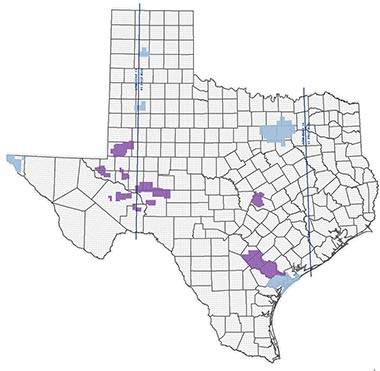
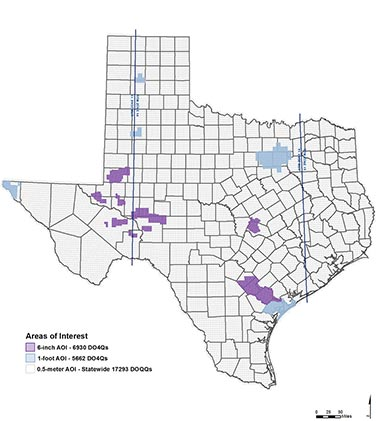
added buy up map, timeline adjustments

diff --git a/scss/partials/_statewide-ortho.scss b/scss/partials/_statewide-ortho.scss
@@ -380,7 +380,7 @@ h2.updates-header {
 
 .bar-vertical {
     background:#eee;
-    height: 450px;
+    height: 380px;
     top: 50px;
     position: absolute;
     right: 50%;
@@ -428,6 +428,10 @@ h2.updates-header {
     strong {
       font-size: 20px;
     }
+    
+    @media (min-width: $screen-sm) and (max-width: $screen-md) {
+      font-size: 14px;
+    }
 
     @media (min-width: $screen-sm) {
       bottom: 0;
@@ -437,7 +441,7 @@ h2.updates-header {
       margin-right: auto;
       left: 0;
       right: 0;
-      height: 100px;
+      height: 90px;
 
       &:after {
         content:'';
@@ -517,5 +521,30 @@ h2.updates-header {
     @media (min-width: $screen-md) {
       height: 40px;
     }
+  }
+}
+
+//Buy up image
+
+.buy-up {
+  background: $lightgrey;
+  border: 1px solid $midgrey;
+  border-radius: 5px;
+  float: right;
+  margin-left: 10px;
+  padding: 10px;
+  width: 200px;
+
+  h4 {
+    margin: 0;
+    text-align: center;
+  }
+  
+  img {
+    width: 100%;
+  }
+
+  @media (min-width: $screen-md) {
+    margin-right: -230px;
   }
 }

diff --git a/templates/partials/2015-ortho/intro.html b/templates/partials/2015-ortho/intro.html
@@ -4,8 +4,7 @@
         <h3>Acquisition Time Frames Map</h3>
         <a href="#time-frames-map" data-toggle="modal">
             <img alt="Acquistion Time Frames map thumbnail" src="../images/statewide-orthoimagery/2015_stateorthos_acquisition_sm.jpg">
-          <br>
-          <small class="text-right"><span class="glyphicon glyphicon-search"></span> Click for larger view</small>
+          <figcaption class="text-right"><span class="glyphicon glyphicon-search"></span> Click for larger view</figcaption>
         </a>
     </figure>
     <div class="modal fade" id="time-frames-map" tabindex="-1" role="dialog" aria-labelledby="myModalLabel" aria-hidden="true">

diff --git a/scss/partials/_twentytwenty.scss b/scss/partials/_twentytwenty.scss
@@ -8,6 +8,17 @@
   }
 }
 
+.leaf-off-on {
+  .twentytwenty-before-label:before {
+    content: 'Leaf-Off';
+  }
+
+  .twentytwenty-after-label:before {
+    content: 'Leaf-On';
+  }
+}
+
+
 .twentytwenty-before-label, 
 .twentytwenty-after-label {
   &:before {

diff --git a/scss/partials/_variables.scss b/scss/partials/_variables.scss
@@ -66,7 +66,7 @@ $footer-height: 275px;
 }
 
 // timeline height on ortho page
-$timelineheight: 210px;
+$timelineheight: 200px;
 $timelineheightsm: 160px;
 
 // Box Shadow //

diff --git a/content/markdown/2015-statewide-orthoimagery-project.md b/content/markdown/2015-statewide-orthoimagery-project.md
@@ -22,29 +22,54 @@ progress_5: 0
 ---
 
 ## Contributors
-
 <p class="lead"><strong>Four state agencies</strong> contributed funds toward the BASE 0.5-meter statewide orthoimagery collection.</p>
 
 They are the [Texas Department of Transportation](http://www.txdot.gov), the [Texas Commission on Environmental Quality](http://www.tceq.state.tx.us), the [Railroad Commission of Texas Surface Mining and Reclamation Division](http://www.rrc.state.tx.us), and the Texas [General Land Office](http://www.glo.texas.gov).
 
 <img class="img-responsive img-expand" src="/images/statewide-orthoimagery/statewide_contributors.jpg" alt="State Agencies who contributed to the orthoimagery collection">
 
+<figure class="buy-up">
+        <h4>Map of 1-foot to 6-Inch Buy-Ups</h4>
+        <a href="#buy-ups-map" data-toggle="modal">
+            <img src="images/statewide-orthoimagery/2015_orthos_buyups_sm.jpg" alt="thumbnail for buyup regions">
+          <figcaption class="text-right"><i class="glyphicon glyphicon-search"></i> Click for larger view</figcaption>
+        </a>
+</figure>
+<div class="modal fade" id="buy-ups-map" tabindex="-1" role="dialog" aria-labelledby="myModalLabel" aria-hidden="true">
+    <div class="modal-dialog">
+        <div class="modal-content">
+            <div class="modal-header">
+                <button type="button" class="close" data-dismiss="modal" aria-label="Close"><span aria-hidden="true">&times;</span>
+                </button>
+                <h3>Map of 1-foot to 6-Inch Buy-Ups</h3>
+            </div>
+            <div class="modal-body">
+                <img class="img-responsive" src="images/statewide-orthoimagery/2015_orthos_buyups.jpg" alt="Full version of the Time Frames Acquistition Map">
+            </div>
+            <div class="modal-footer">
+                <button type="button" class="btn btn-default" data-dismiss="modal">Close</button>
+            </div>
+        </div>
+    </div>
+</div>
+
 <p class="lead"><strong>Five additional government agencies</strong> contributed funds toward select 1-foot or 6-inch BUY-UP areas.</p>
+
 
 They are the [National Geospatial-Intelligence Agency](https://www.nga.mil/Pages/default.aspx), the [Texas Parks and Wildlife Department](https://tpwd.texas.gov/), [University Lands](http://www.utlands.utsystem.edu/), the [San Antonio River Authority](https://www.sara-tx.org/), and the [City of Georgetown](https://georgetown.org/).
 
 <img class="img-responsive img-expand" src="/images/statewide-orthoimagery/buyup_contributors.jpg" alt="Organizations contributing to Buy-Up area">
 
-## Acquisition Season
+<h2>Acquisition Season</h2>
 
 <p class="lead">All orthoimagery products are acquired during t<strong>he leaf-off (fall/winter) season in TX</strong>.</p>
 
-Leaf-off imagery allows manmade structures under deciduous tree cover to be mapped or monitored more easily than using leaf-on imagery. Vegetation mapping can also be beneficial with leaf-off imagery because evergreen vs. deciduous species are more readily identified.
+<p>Leaf-off imagery allows manmade structures under deciduous tree cover to be mapped or monitored more easily than using leaf-on imagery. Vegetation mapping can also be beneficial with leaf-off imagery because evergreen vs. deciduous species are more readily identified.</p>
 
 *Grab the Image Slider to compare between Leaf-Off **(Google Earth, Nov. 9, 2011)** and Leaf-On imagery **(Smith GIS Consortium, Feb. 16, 2010)**.*
 
 <figure>
-<div id="imageCompare7" class='twentytwenty-container natural-color-infrared'>
+<div id="imageCompare7" class='twentytwenty-container leaf-off-on'>
   <img src="images/statewide-orthoimagery/leaf_off.jpg" alt="Preview of Leaf-on imagery">
   <img src="images/statewide-orthoimagery/leaf_on.jpg" alt="Preview of Leaf-Off Imagery">
 </div>
